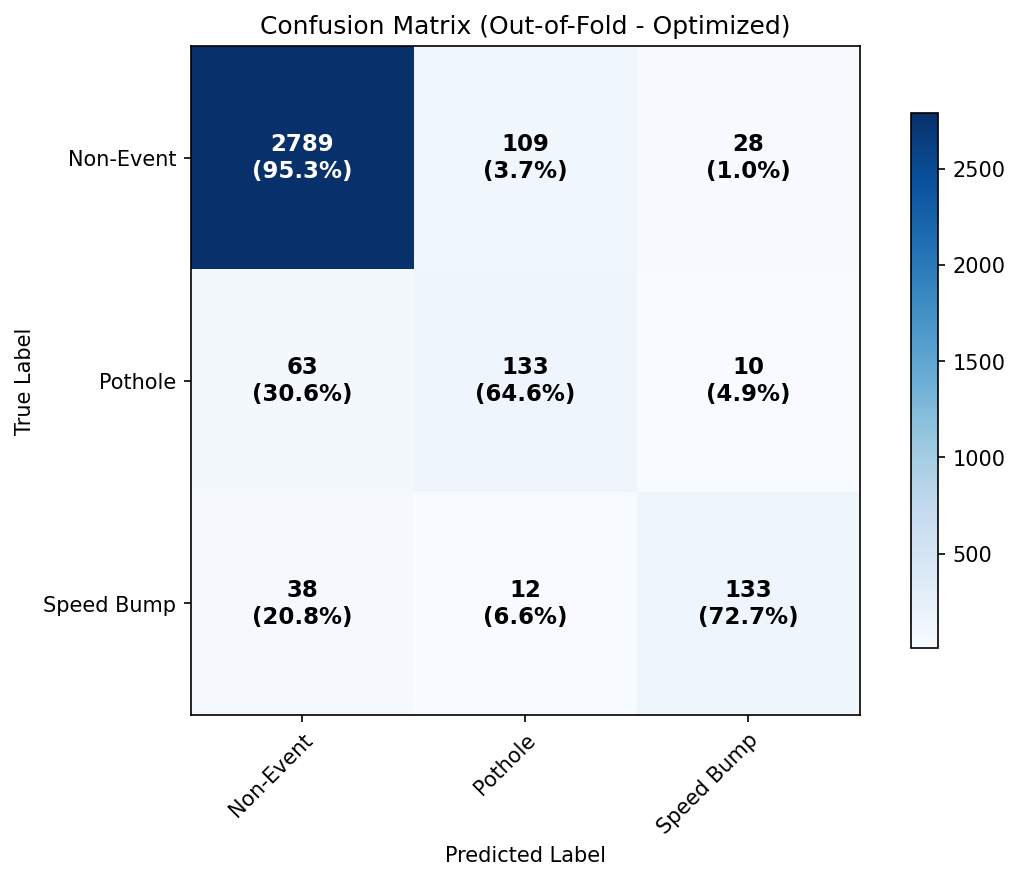
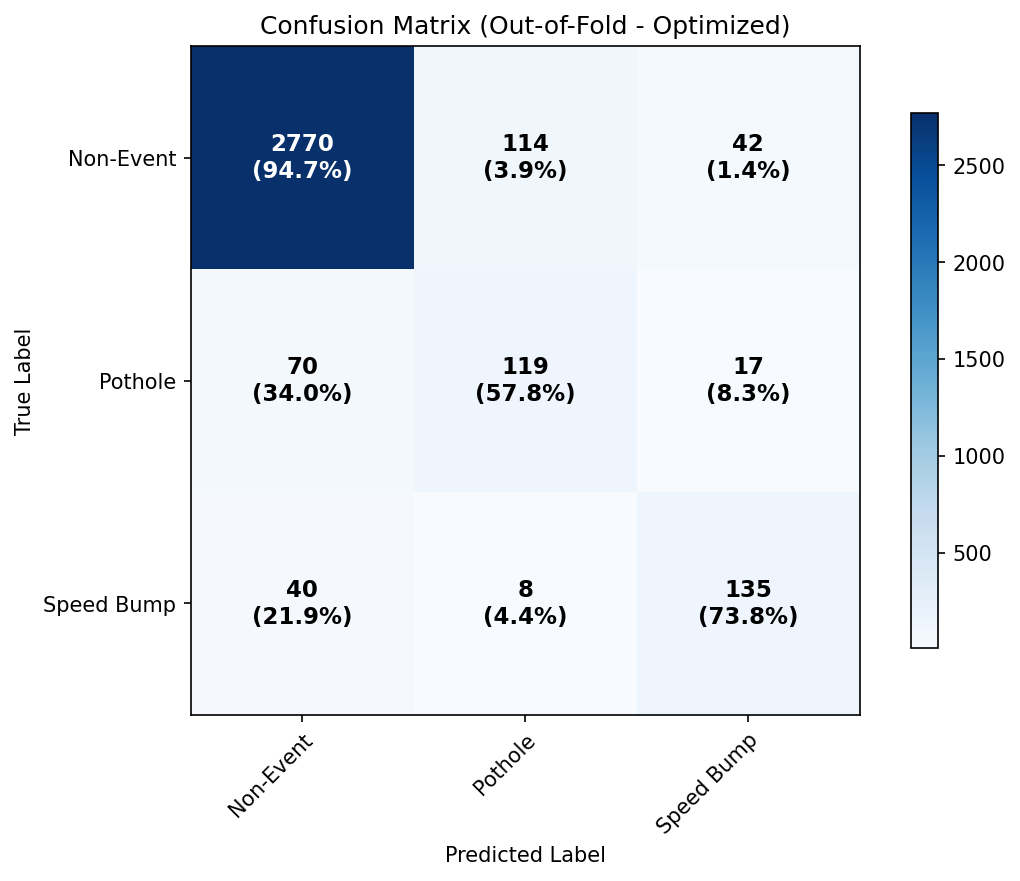
fix data pipeline, model, and evaluation updates
This commit fixes multiple data processing bugs, updates the CNN model architecture, and refreshes evaluation results:
- Remove 6Hz lowpass filter in sensor fusion to preserve high-frequency pothole signals
- Correct gyro axis orientation and brake energy feature calculations
- Update CNN model to InceptionTime1D with 18 input channels, switch to instance-level scaling
- Disable class weight sqrt dampening since SMOTE is not used
- Update scaler parameter sizes from 14 to 18 in train.py
- Fix rolling window parameters and feature channels list in CNN data building
- Refresh ensemble evaluation metrics and confusion matrices
- Add temporary debug stack dump files

diff --git a/src/dataset/build_cnn_data.py b/src/dataset/build_cnn_data.py
@@ -30,11 +30,7 @@ CHANNELS = [
     "g_roll_accel", "g_pitch_accel",
     "a_vertical_rms", "a_vertical_zcr",
     "a_horizontal_rms", "energy_ratio_vh",
-    # Komponen 3D linear acceleration: memberikan info arah longitudinal vs lateral.
     "lin_ax", "lin_ay", "lin_az",
-    # Magnitude deviation dari 1G: sqrt(ax²+ay²+az²) - 9.81.
-    # Pothole: brief weightlessness (dip negatif) → spike positif.
-    # Speed Bump: hanya spike positif. Non-Event: near zero.
     "magnitude_deviation"
 ]
 
@@ -49,8 +45,8 @@ def compute_engineered_features(df):
     
     # 2. Crest Factor
     window_sz = 10
-    peak = df["a_vertical"].abs().rolling(window=window_sz, min_periods=1, center=True).max()
-    rms = np.sqrt((df["a_vertical"]**2).rolling(window=window_sz, min_periods=1, center=True).mean())
+    peak = df["a_vertical"].abs().rolling(window=window_sz, min_periods=1).max()
+    rms = np.sqrt((df["a_vertical"]**2).rolling(window=window_sz, min_periods=1).mean())
     crest_factor = peak / (rms + 1e-6)
     df["a_vertical_crest_factor"] = crest_factor.fillna(1.0)
     
@@ -76,7 +72,7 @@ def compute_engineered_features(df):
     # Pothole: lonjakan RMS tajam & singkat. Jalan kasar: RMS menengah kontinu.
     rms_window = 20
     df["a_vertical_rms"] = np.sqrt(
-        (df["a_vertical"]**2).rolling(window=rms_window, min_periods=1, center=True).mean()
+        (df["a_vertical"]**2).rolling(window=rms_window, min_periods=1).mean()
     ).fillna(0.0)
     
     # 6. Zero Crossing Rate (ZCR) dari akselerasi vertikal
@@ -85,14 +81,14 @@ def compute_engineered_features(df):
     zcr_window = 20
     sign_changes = (np.sign(df["a_vertical"]).diff().abs() > 0).astype(float)
     df["a_vertical_zcr"] = sign_changes.rolling(
-        window=zcr_window, min_periods=1, center=True
+        window=zcr_window, min_periods=1
     ).mean().fillna(0.0)
     
     # 7. Rolling RMS dari akselerasi horizontal
     # Mengukur energi getaran horizontal. Pengereman mendadak memiliki
     # a_horizontal_rms tinggi tanpa a_vertical_rms tinggi (beda dari Pothole).
     df["a_horizontal_rms"] = np.sqrt(
-        (df["a_horizontal"]**2).rolling(window=rms_window, min_periods=1, center=True).mean()
+        (df["a_horizontal"]**2).rolling(window=rms_window, min_periods=1).mean()
     ).fillna(0.0)
     
     # 8. Rasio Energi Vertikal / Horizontal

diff --git a/src/dataset/feature_extraction.py b/src/dataset/feature_extraction.py
@@ -218,16 +218,16 @@ def extract_event_shape_features(window_df, bg_df=None):
     gyro_yaw_energy   = 0.0
     gyro_pitch_roll_ratio = 0.0
     if has_gyro:
-        # Asumsi mounting standar motor:
-        #   Y = pitch (depan-belakang miring)
-        #   X = roll  (kiri-kanan oleng)
-        #   Z = yaw   (belok)
+        # Koreksi Orientasi Sumbu (Android Portrait Upright):
+        #   X = pitch (depan-belakang mengangguk/miring)
+        #   Y = yaw   (kiri-kanan belok stir)
+        #   Z = roll  (kiri-kanan oleng/rebah)
         gy_arr = seg["gy"].fillna(0.0).astype(float).values
         gx_arr = seg["gx"].fillna(0.0).astype(float).values
         gz_arr = seg["gz"].fillna(0.0).astype(float).values
-        gyro_pitch_energy = float(np.sum(gy_arr ** 2))
-        gyro_roll_energy  = float(np.sum(gx_arr ** 2))
-        gyro_yaw_energy   = float(np.sum(gz_arr ** 2))
+        gyro_pitch_energy = float(np.sum(gx_arr ** 2)) # Pitch = Rotasi sumbu X
+        gyro_yaw_energy   = float(np.sum(gy_arr ** 2)) # Yaw = Rotasi sumbu Y
+        gyro_roll_energy  = float(np.sum(gz_arr ** 2)) # Roll = Rotasi sumbu Z
         gyro_pitch_roll_ratio = gyro_pitch_energy / (gyro_roll_energy + 1e-6)
 
     # ---------- Fitur Rekomendasi Senior ML: Interaction & PSD ----------
@@ -390,8 +390,9 @@ def extract_event_shape_features(window_df, bg_df=None):
     # 6. EXCLUSIVE FIXED-MOUNT DIRECTIONAL FEATURES (Hard Negative Killers)
     brake_to_bump_ratio = 0.0
     if has_native_lin and vertical_energy > 0:
-        ay_arr = seg["lin_ay"].astype(float).values
-        brake_energy = float(np.sum(ay_arr ** 2))
+        # Pengereman (Deselerasi) terjadi pada sumbu Z (Depan-Belakang) di Android
+        az_arr = seg["lin_az"].astype(float).values
+        brake_energy = float(np.sum(az_arr ** 2))
         brake_to_bump_ratio = np.clip(brake_energy / (vertical_energy + 1e-6), 0.0, 100.0)
         
     down_up_asymmetry = 0.0

diff --git a/evaluation/evaluate_ensemble.py b/evaluation/evaluate_ensemble.py
@@ -17,7 +17,7 @@ CNN_DATA_DIR = os.path.join(BASE_DIR, "data", "processed", "cnn_1d")
 XGB_MODEL_DIR = os.path.join(BASE_DIR, "evaluation", "models", "xgboost")
 CNN_MODEL_DIR = os.path.join(BASE_DIR, "evaluation", "models", "cnn_1d")
 
-from model import Lightweight1DCNN
+from model import InceptionTime1D
 
 def get_stratified_group_split(groups, y_raw, train_ratio=0.7):
     unique_classes = np.unique(y_raw)
@@ -110,15 +110,16 @@ def main():
         xgb_probas = xgb_raw_probas
         
     # CNN Probability Prediction
-    with open(os.path.join(CNN_MODEL_DIR, "cnn_1d_scaler_params.json"), "r") as f:
-        scaler_params = json.load(f)
-    means = np.array(scaler_params["means"]).reshape(1, -1, 1)
-    stds = np.array(scaler_params["stds"]).reshape(1, -1, 1)
+    # Gunakan Instance-level Scaling agar selaras dengan training CNN
+    def scale_instance_level(X, eps=1e-8):
+        mean = np.mean(X, axis=2, keepdims=True)
+        std = np.std(X, axis=2, keepdims=True)
+        return (X - mean) / (std + eps)
     
-    X_cnn_scaled = (X_cnn_test - means) / stds
+    X_cnn_scaled = scale_instance_level(X_cnn_test)
     X_cnn_tensor = torch.tensor(X_cnn_scaled, dtype=torch.float32)
     
-    cnn_model = Lightweight1DCNN(in_channels=14, num_classes=len(classes))
+    cnn_model = InceptionTime1D(in_channels=18, num_classes=len(classes))
     cnn_model.load_state_dict(torch.load(os.path.join(CNN_MODEL_DIR, "cnn_1d_model.pth"), map_location=torch.device('cpu')))
     cnn_model.eval()
     

diff --git a/src/dataset/sensor_fusion.py b/src/dataset/sensor_fusion.py
@@ -117,13 +117,12 @@ def apply_sensor_fusion(df, cutoff_hz=2.0):
         a_horiz_raw = np.sqrt(a_horiz_raw_sq)
         
         fs = float(TARGET_HZ)
-        cutoff_denoise = 6.0
         
-        df["a_vertical"] = butter_lowpass_filter(a_vert_raw, cutoff=cutoff_denoise, fs=fs)
-        df["a_horizontal"] = butter_lowpass_filter(a_horiz_raw, cutoff=cutoff_denoise, fs=fs)
-        
-        df["a_vertical"] = butterworth_bandpass_iir(df["a_vertical"].values)
-        df["a_horizontal"] = butterworth_bandpass_iir(df["a_horizontal"].values)
+        # [CRITICAL FIX]: Do NOT apply 6.0Hz lowpass filter on linear acceleration.
+        # Potholes are high-frequency impulses (10-15Hz). A 6.0Hz lowpass will destroy them.
+        # Only apply the 1-20Hz Bandpass to remove engine noise (>20Hz) and gravity bias (<1Hz).
+        df["a_vertical"] = butterworth_bandpass_iir(a_vert_raw.values)
+        df["a_horizontal"] = butterworth_bandpass_iir(a_horiz_raw.values)
         
         if "magnitude" not in df.columns:
             df["magnitude"] = np.sqrt(df["ax"]**2 + df["ay"]**2 + df["az"]**2)

diff --git a/src/cnn_model/train.py b/src/cnn_model/train.py
@@ -299,8 +299,8 @@ def main():
         
         if fold == 0:
             scaler_params = {
-                "means": [0.0] * 14,
-                "stds": [1.0] * 14
+                "means": [0.0] * 18,
+                "stds": [1.0] * 18
             }
             scaler_path = os.path.join(MODEL_DIR, "scaler_params.json")
             with open(scaler_path, "w") as f:
@@ -329,7 +329,7 @@ def main():
         # Dampened Class Weights (sqrt)
         # Gunakan sqrt(balanced_weights) pada data hasil SMOTE untuk mencegah double-compensation
         class_weights = compute_class_weight('balanced', classes=np.unique(y_train_smote), y=y_train_smote)
-        class_weights = np.sqrt(class_weights)  # Dampening: sqrt
+        # class_weights = np.sqrt(class_weights)  # Dihapus karena SMOTE tidak digunakan
         class_weights = class_weights / class_weights.sum() * len(class_weights)  # Re-normalize
         class_weights = torch.tensor(class_weights, dtype=torch.float32).to(device)
         
